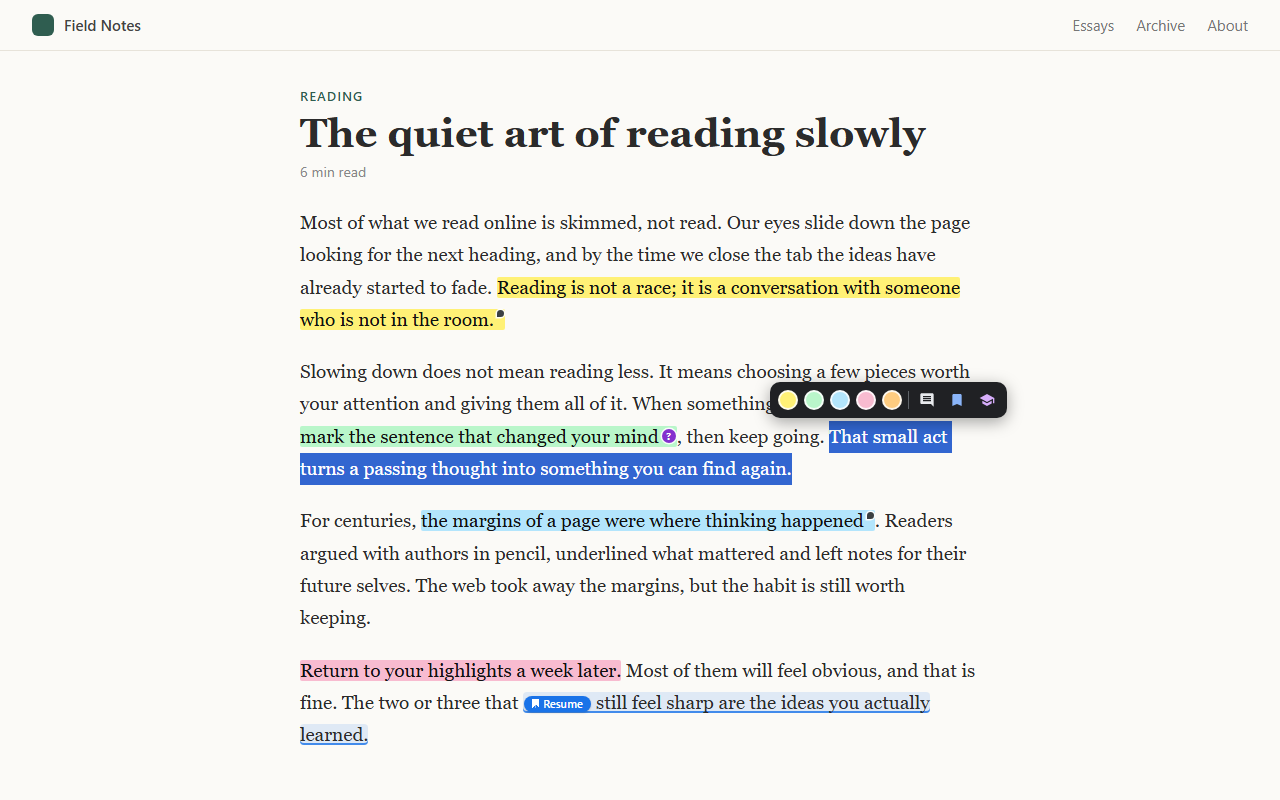
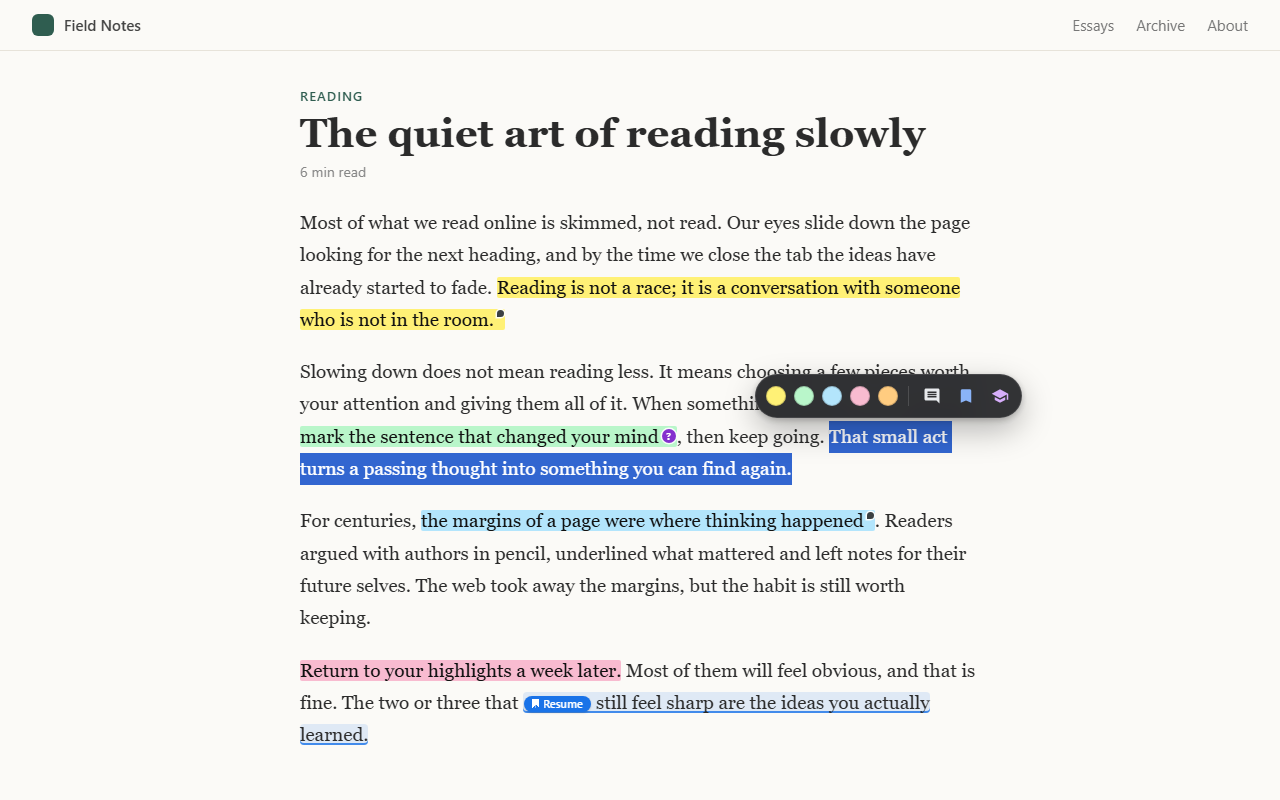
Give the floating toolbar a modern look (1.4.2)
- A frosted dark pill with round icon buttons, a short fade-in, and a
  white ring on the current color. Delete turns red on hover.
- Quick hover labels on the icon buttons instead of the slow native
  tooltip, shown on the side away from the text.
- A rounded note box with a focus glow and pill Cancel/Save buttons.
- Reduced motion turns the animations off; the screenshot capture uses
  it so the toolbar isn't caught mid fade-in.

diff --git a/content/toolbar.js b/content/toolbar.js
@@ -14,83 +14,135 @@
     delete: 'M6 19c0 1.1.9 2 2 2h8c1.1 0 2-.9 2-2V7H6v12zM19 4h-3.5l-1-1h-5l-1 1H5v2h14V4z'
   };
 
+  // A dark, frosted pill that reads well on light and dark pages. Icon buttons get
+  // a quick label on hover (data-tip), shown on the side away from the text.
   const CSS = `
     :host { all: initial; }
     .bar {
+      --shift: 6px;
       position: fixed;
       display: flex;
       align-items: center;
-      gap: 6px;
-      padding: 6px 8px;
-      background: #202124;
-      border-radius: 10px;
-      box-shadow: 0 4px 16px rgba(0, 0, 0, 0.35);
-      font: 12px/1 system-ui, sans-serif;
+      gap: 2px;
+      padding: 5px;
+      border: 1px solid rgba(255, 255, 255, 0.1);
+      border-radius: 999px;
+      background: rgba(28, 29, 32, 0.9);
+      -webkit-backdrop-filter: blur(14px) saturate(160%);
+      backdrop-filter: blur(14px) saturate(160%);
+      box-shadow: 0 12px 32px rgba(0, 0, 0, 0.28), 0 2px 6px rgba(0, 0, 0, 0.22);
+      color: #e8eaed;
+      font: 12px/1 system-ui, -apple-system, 'Segoe UI', sans-serif;
       user-select: none;
+      animation: hl-in 0.14s ease-out;
     }
+    .bar[data-side='below'] { --shift: -6px; }
     .bar[hidden] { display: none; }
+    @keyframes hl-in {
+      from { opacity: 0; transform: translateY(var(--shift)) scale(0.97); }
+    }
     .bar.note-mode {
       flex-direction: column;
       align-items: stretch;
-      padding: 8px;
+      gap: 8px;
+      padding: 10px;
+      border-radius: 16px;
     }
     button { all: unset; box-sizing: border-box; cursor: pointer; }
+    button:focus-visible { outline: 2px solid #8ab4f8; outline-offset: 2px; }
     .swatch {
       width: 20px;
       height: 20px;
+      margin: 0 3px;
       border-radius: 50%;
-      border: 2px solid rgba(255, 255, 255, 0.85);
-      transition: transform 0.1s;
+      box-shadow: inset 0 0 0 1px rgba(0, 0, 0, 0.18);
+      transition: transform 0.12s ease-out, box-shadow 0.12s;
     }
-    .swatch:hover { transform: scale(1.15); }
-    .swatch.active { box-shadow: 0 0 0 2px #202124, 0 0 0 4px #8ab4f8; }
-    .sep { width: 1px; height: 18px; background: #5f6368; }
+    .swatch:first-child { margin-left: 5px; }
+    .swatch:hover { transform: scale(1.18); }
+    .swatch:active { transform: scale(0.94); }
+    .swatch.active { box-shadow: inset 0 0 0 1px rgba(0, 0, 0, 0.18), 0 0 0 2px rgba(28, 29, 32, 0.9), 0 0 0 4px #fff; }
+    .sep { width: 1px; height: 20px; margin: 0 5px; background: rgba(255, 255, 255, 0.14); }
     .icon {
+      position: relative;
       display: grid;
       place-items: center;
-      width: 24px;
-      height: 24px;
-      border-radius: 6px;
+      width: 32px;
+      height: 32px;
+      border-radius: 50%;
       color: #e8eaed;
+      transition: background-color 0.12s, transform 0.12s ease-out;
     }
-    .icon:hover { background: #3c4043; }
+    .icon:hover { background: rgba(255, 255, 255, 0.12); }
+    .icon:active { transform: scale(0.9); }
     .icon.on { color: #fdd663; }
     .icon[data-action='bookmark'] { color: #8ab4f8; }
     .icon[data-action='learn'] { color: #d7aefb; }
-    .icon svg { width: 16px; height: 16px; fill: currentColor; }
+    .icon[data-action='delete']:hover { color: #f28b82; background: rgba(242, 139, 130, 0.14); }
+    .icon svg { width: 18px; height: 18px; fill: currentColor; }
+    .icon::after {
+      content: attr(data-tip);
+      position: absolute;
+      left: 50%;
+      bottom: calc(100% + 12px);
+      padding: 6px 9px;
+      border-radius: 7px;
+      background: #0f1012;
+      box-shadow: 0 4px 12px rgba(0, 0, 0, 0.25);
+      color: #fff;
+      font: 500 11px/1.2 system-ui, -apple-system, 'Segoe UI', sans-serif;
+      white-space: nowrap;
+      opacity: 0;
+      transform: translate(-50%, 3px);
+      transition: opacity 0.12s, transform 0.12s;
+      pointer-events: none;
+    }
+    .bar[data-side='below'] .icon::after { bottom: auto; top: calc(100% + 12px); transform: translate(-50%, -3px); }
+    .icon:last-child::after { left: auto; right: 0; transform: translateY(3px); }
+    .bar[data-side='below'] .icon:last-child::after { transform: translateY(-3px); }
+    .icon:hover::after,
+    .icon:focus-visible::after { opacity: 1; transform: translate(-50%, 0); transition-delay: 0.3s; }
+    .icon:last-child:hover::after,
+    .icon:last-child:focus-visible::after { transform: none; }
     textarea {
       all: unset;
       box-sizing: border-box;
       display: block;
-      width: 260px;
-      min-height: 72px;
+      width: 280px;
+      min-height: 80px;
       max-height: 220px;
-      padding: 6px 8px;
-      border-radius: 6px;
-      background: #303134;
+      padding: 9px 11px;
+      border: 1px solid rgba(255, 255, 255, 0.1);
+      border-radius: 10px;
+      background: rgba(255, 255, 255, 0.06);
       color: #e8eaed;
-      font: 13px/1.4 system-ui, sans-serif;
+      font: 13px/1.45 system-ui, -apple-system, 'Segoe UI', sans-serif;
       white-space: pre-wrap;
       overflow-wrap: break-word;
       overflow-y: auto;
       resize: vertical;
       cursor: text;
       user-select: text;
+      transition: border-color 0.12s, box-shadow 0.12s;
     }
     textarea::placeholder { color: #9aa0a6; }
-    textarea:focus { outline: 2px solid #8ab4f8; outline-offset: 0; }
+    textarea:focus { border-color: #8ab4f8; box-shadow: 0 0 0 3px rgba(138, 180, 248, 0.25); }
     .row { display: flex; align-items: center; gap: 6px; }
-    .hint { flex: 1; color: #9aa0a6; font-size: 11px; }
+    .hint { flex: 1; padding-left: 2px; color: #9aa0a6; font-size: 11px; }
     .text-btn {
-      padding: 5px 10px;
-      border-radius: 6px;
+      padding: 7px 14px;
+      border-radius: 999px;
       color: #e8eaed;
       font-weight: 600;
+      transition: background-color 0.12s, transform 0.12s ease-out;
     }
-    .text-btn:hover { background: #3c4043; }
-    .text-btn.primary { background: #8ab4f8; color: #202124; }
+    .text-btn:hover { background: rgba(255, 255, 255, 0.12); }
+    .text-btn:active { transform: scale(0.96); }
+    .text-btn.primary { background: #8ab4f8; color: #1c1d20; }
     .text-btn.primary:hover { background: #aecbfa; }
-    button:focus-visible { outline: 2px solid #8ab4f8; outline-offset: 2px; }
+    @media (prefers-reduced-motion: reduce) {
+      .bar, .swatch, .icon, .icon::after, .text-btn, textarea { animation: none; transition: none; }
+    }
   `;
 
   let host = null;
@@ -241,9 +293,13 @@
     return el;
   }
 
+  // The label shows as a quick tooltip (CSS, from data-tip) instead of the slow
+  // native one.
   function iconButton(action, label, icon = action) {
     const el = button(action, label);
     el.className = 'icon';
+    el.removeAttribute('title');
+    el.dataset.tip = label;
     const svg = document.createElementNS('http://www.w3.org/2000/svg', 'svg');
     svg.setAttribute('viewBox', '0 0 24 24');
     const path = document.createElementNS('http://www.w3.org/2000/svg', 'path');
@@ -265,8 +321,10 @@
     const gap = 8;
     const { width, height } = bar.getBoundingClientRect();
     let top = rect.top - height - gap;
-    if (top < 4) top = rect.bottom + gap;
+    const below = top < 4;
+    if (below) top = rect.bottom + gap;
     top = Math.max(4, Math.min(top, window.innerHeight - height - 4));
+    bar.dataset.side = below ? 'below' : 'above'; // tooltips go on the side away from the text
     let left = rect.left + rect.width / 2 - width / 2;
     left = Math.max(4, Math.min(left, window.innerWidth - width - 4));
     bar.style.top = `${top}px`;
